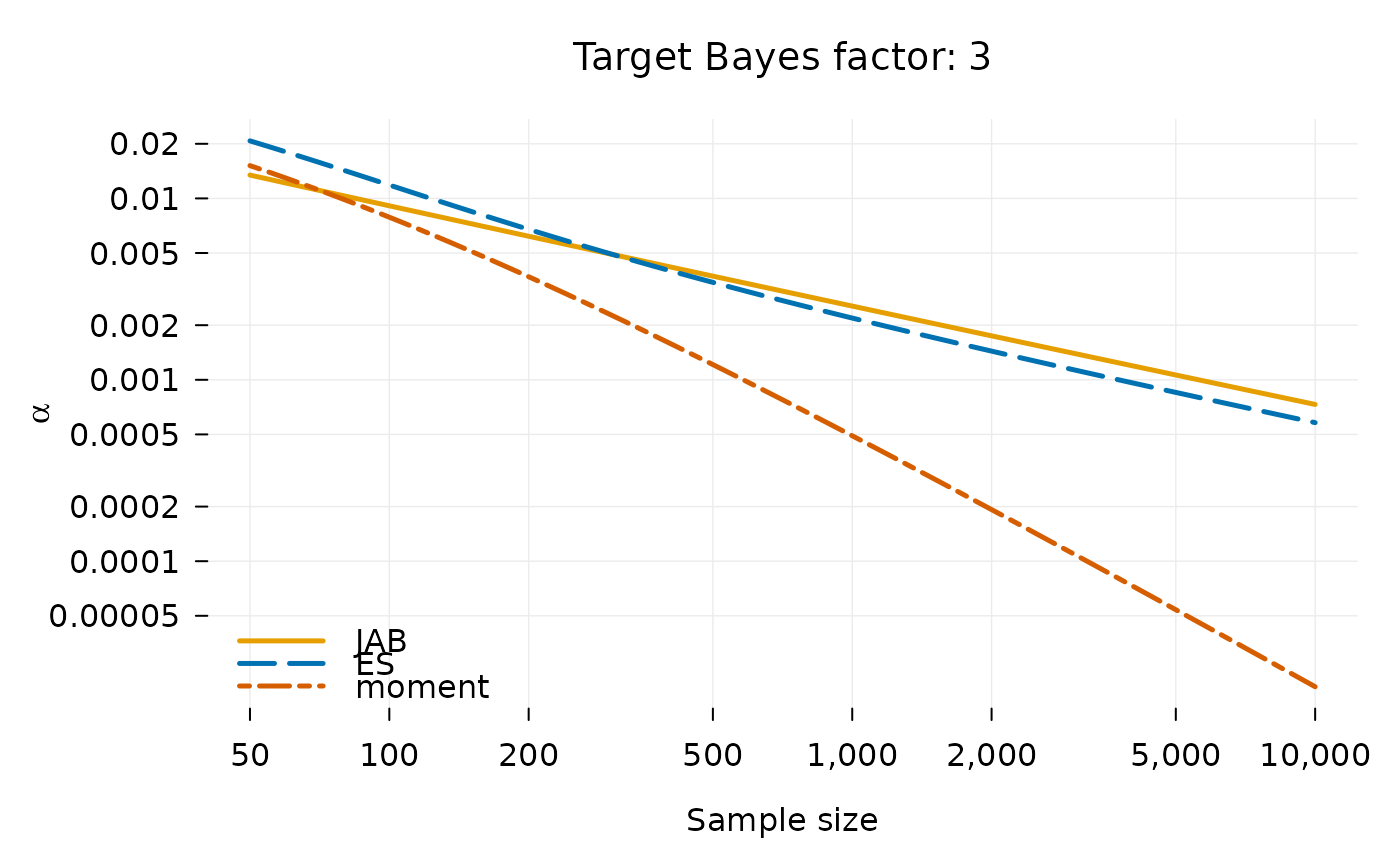
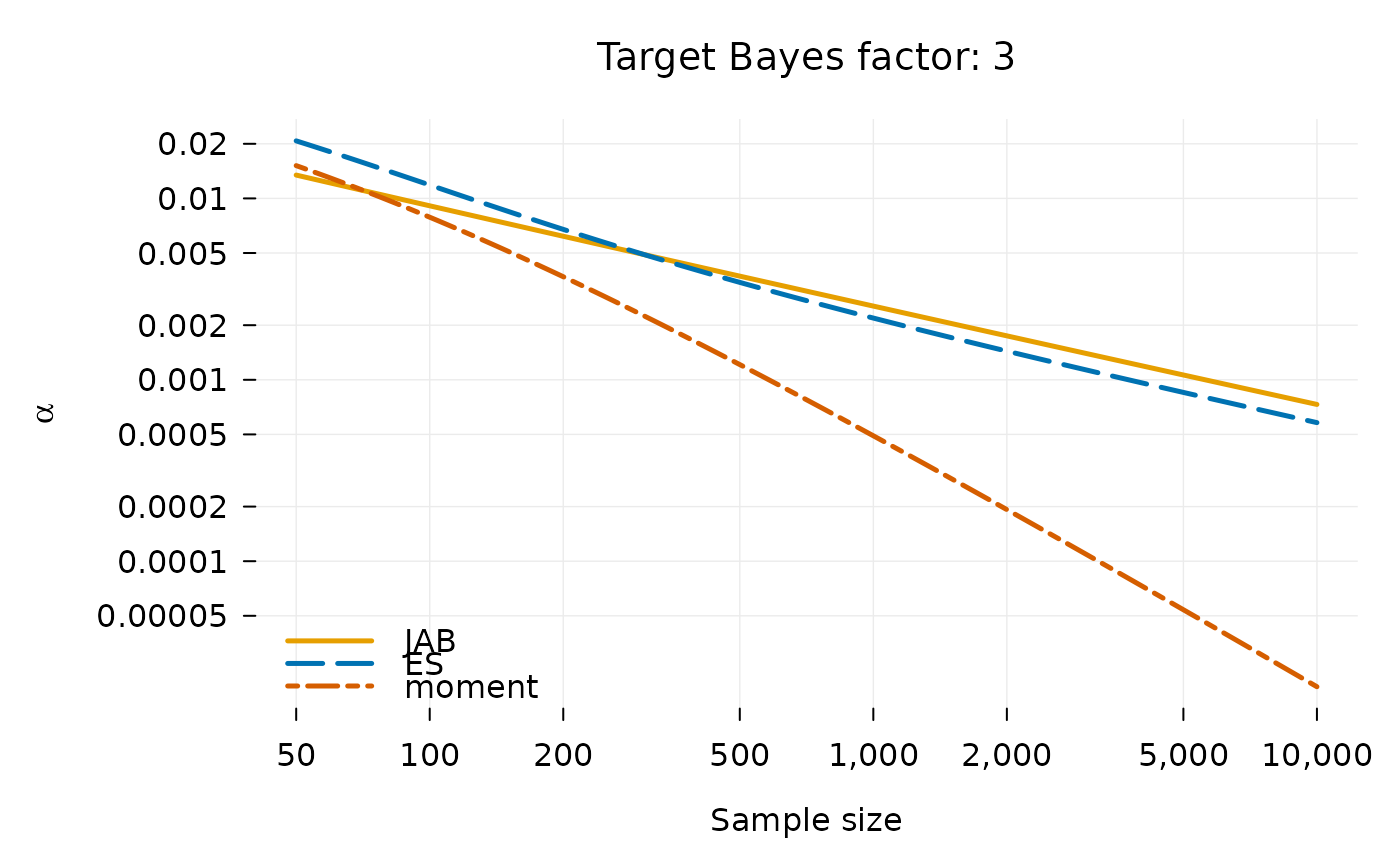
Deploying to gh-pages from @ jespernwulff/alphaN@c95f9ad7eecfcd349abf046bd31843097cdc24d1 🚀

diff --git a/reference/alphaN_report.html b/reference/alphaN_report.html
@@ -179,7 +179,7 @@ is printed to the console.</p>
     <div class="sourceCode"><pre class="sourceCode r"><code><span class="r-in"><span><span class="fu">alphaN_report</span><span class="op">(</span>n <span class="op">=</span> <span class="fl">1000</span>, BF <span class="op">=</span> <span class="fl">3</span>, method <span class="op">=</span> <span class="st">"JAB"</span><span class="op">)</span></span></span>
 <span class="r-out co"><span class="r-pr">#&gt;</span> # alphaN settings report</span>
 <span class="r-out co"><span class="r-pr">#&gt;</span> </span>
-<span class="r-out co"><span class="r-pr">#&gt;</span> Generated on 2026-07-17 with alphaN 0.2.0.9000.</span>
+<span class="r-out co"><span class="r-pr">#&gt;</span> Generated on 2026-07-19 with alphaN 0.2.0.9000.</span>
 <span class="r-out co"><span class="r-pr">#&gt;</span> </span>
 <span class="r-out co"><span class="r-pr">#&gt;</span> ## Inputs</span>
 <span class="r-out co"><span class="r-pr">#&gt;</span> </span>
@@ -208,7 +208,7 @@ is printed to the console.</p>
 <span class="r-in"><span><span class="fu">alphaN_report</span><span class="op">(</span>n <span class="op">=</span> <span class="fl">1000</span>, BF <span class="op">=</span> <span class="fl">3</span>, method <span class="op">=</span> <span class="st">"ES"</span>, de <span class="op">=</span> <span class="fl">0.5</span>, file <span class="op">=</span> <span class="va">f</span><span class="op">)</span></span></span>
 <span class="r-out co"><span class="r-pr">#&gt;</span> # alphaN settings report</span>
 <span class="r-out co"><span class="r-pr">#&gt;</span> </span>
-<span class="r-out co"><span class="r-pr">#&gt;</span> Generated on 2026-07-17 with alphaN 0.2.0.9000.</span>
+<span class="r-out co"><span class="r-pr">#&gt;</span> Generated on 2026-07-19 with alphaN 0.2.0.9000.</span>
 <span class="r-out co"><span class="r-pr">#&gt;</span> </span>
 <span class="r-out co"><span class="r-pr">#&gt;</span> ## Inputs</span>
 <span class="r-out co"><span class="r-pr">#&gt;</span> </span>

diff --git a/reference/alphaN_report.md b/reference/alphaN_report.md
@@ -139,7 +139,7 @@ printed to the console.
 alphaN_report(n = 1000, BF = 3, method = "JAB")
 #> # alphaN settings report
 #> 
-#> Generated on 2026-07-17 with alphaN 0.2.0.9000.
+#> Generated on 2026-07-19 with alphaN 0.2.0.9000.
 #> 
 #> ## Inputs
 #> 
@@ -168,7 +168,7 @@ f <- tempfile(fileext = ".md")
 alphaN_report(n = 1000, BF = 3, method = "ES", de = 0.5, file = f)
 #> # alphaN settings report
 #> 
-#> Generated on 2026-07-17 with alphaN 0.2.0.9000.
+#> Generated on 2026-07-19 with alphaN 0.2.0.9000.
 #> 
 #> ## Inputs
 #> 